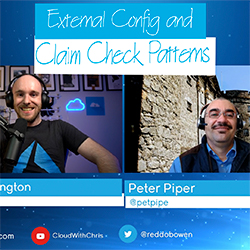
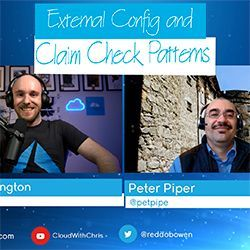
Adding Windows Terminal Cloud Drop (#387)
* Adding Windows Terminal Cloud Drop

* Compressed Images (#388)

* Compressed Images (#389)

diff --git a/content/episode/cloud-drops-windows-terminal-productive-azure.md b/content/episode/cloud-drops-windows-terminal-productive-azure.md
@@ -1,0 +1,26 @@
+---
+Date: "2021-04-03T00:01:00Z"
+Description: "Windows Terminal is a modern application that allows you to use your command line of choice, whether that is the Windows Command Prompt, PowerShell, PowerShell Core, Windows Subsystem for Linux  or the Azure Cloud Shell. This Cloud Drop shows you how to install Windows Terminal, and some tips/tricks in making you productive in Azure!"
+PublishDate: "2021-04-03T00:01:00Z"
+Title: "Cloud Drops - How Windows Terminal can make YOU productive with Azure"
+categories:
+- Azure
+episode: ""
+image: "img/episodes/cloud-drops-windows-terminal-productive-azure.jpg"
+explicit: "no"
+hosts:
+- chrisreddington
+images:
+- "img/episodes/cloud-drops-windows-terminal-productive-azure.jpg"
+podcast_bytes: "5382144"
+podcast_duration: "05:34.000"
+podcast_file: "Cloud Drop - How windows terminal can make YOU productive with Azure.mp3"
+series:
+- "Cloud Drops"
+tags:
+- Windows Terminal
+- Command-Line
+- Azure
+youtube: W2LUQbd1VzU
+---
+Windows Terminal is a modern application that allows you to use your command line of choice, whether that is the Windows Command Prompt, PowerShell, PowerShell Core, Windows Subsystem for Linux  or the Azure Cloud Shell. This Cloud Drop shows you how to install Windows Terminal, and some tips/tricks in making you productive in Azure!
